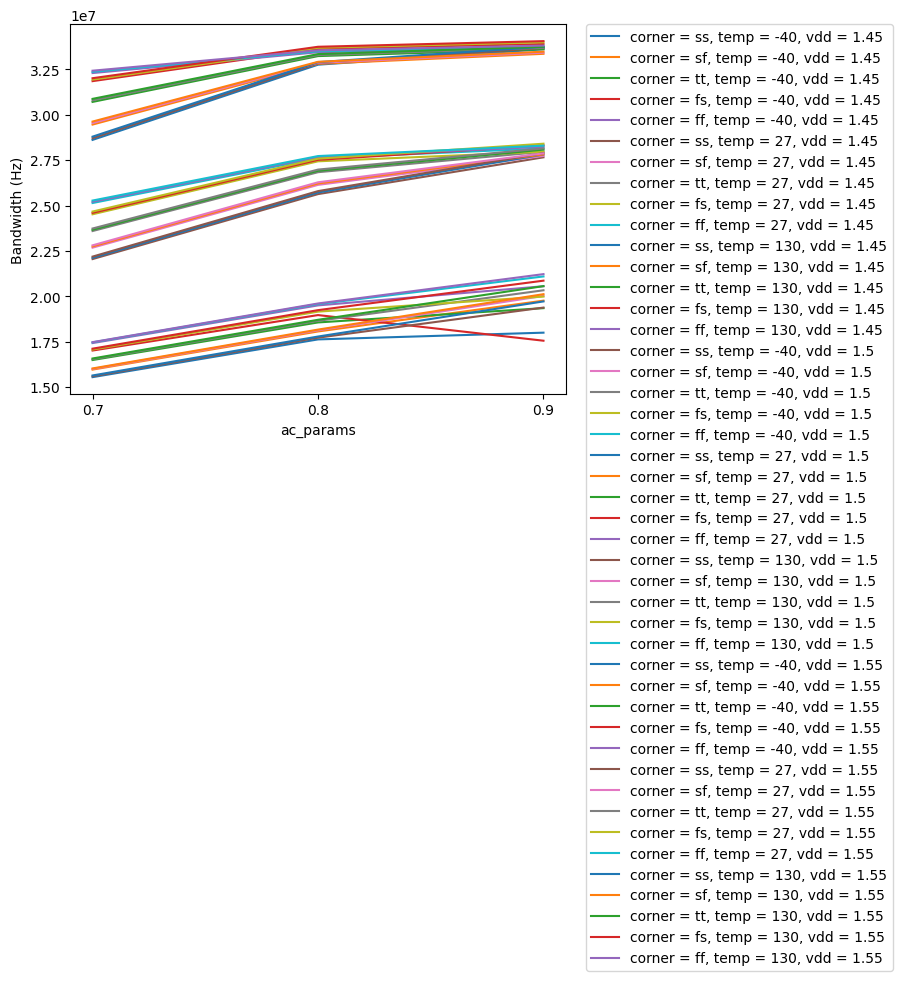
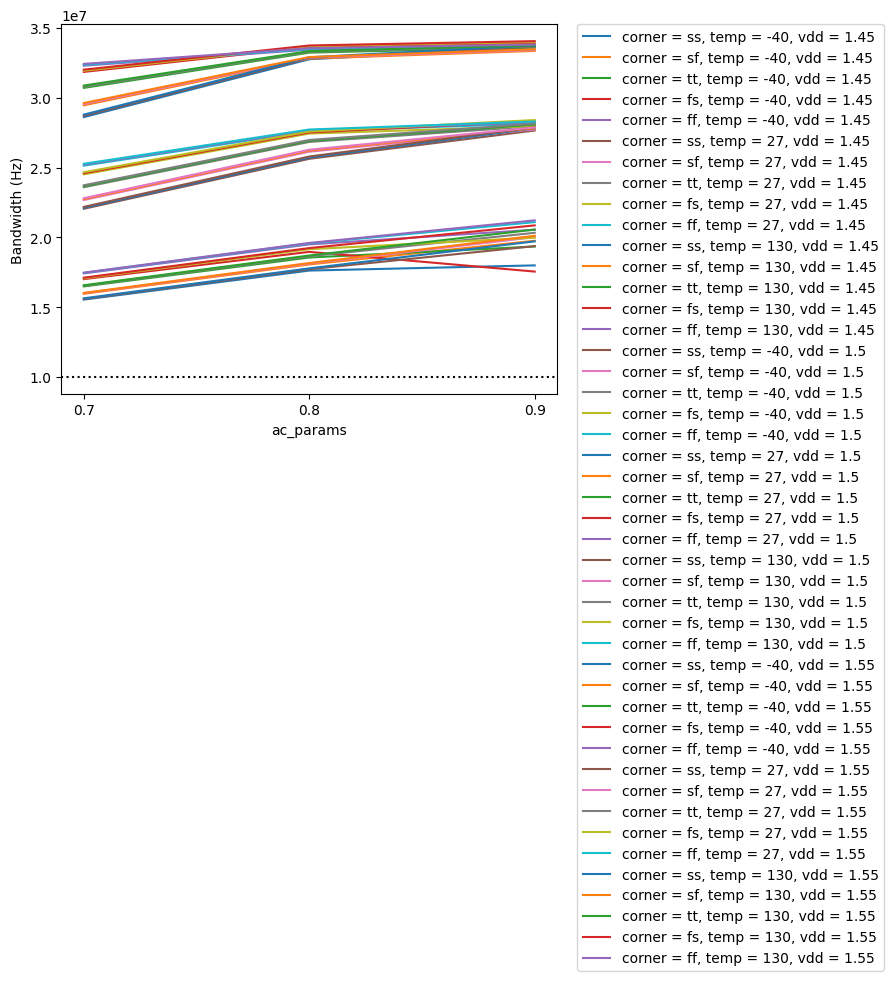
Regenerate plots with latest cace version (not released yet)

diff --git a/cace/_docs/ota-5t.md b/cace/_docs/ota-5t.md
@@ -74,8 +74,3 @@
 ## Schematic
 
 ![Schematic of ota-5t](ota-5t_schematic.svg)
-
-## Layout
-
-![Layout of ota-5t with white background](ota-5t_w.png)
-![Layout of ota-5t with black background](ota-5t_b.png)
